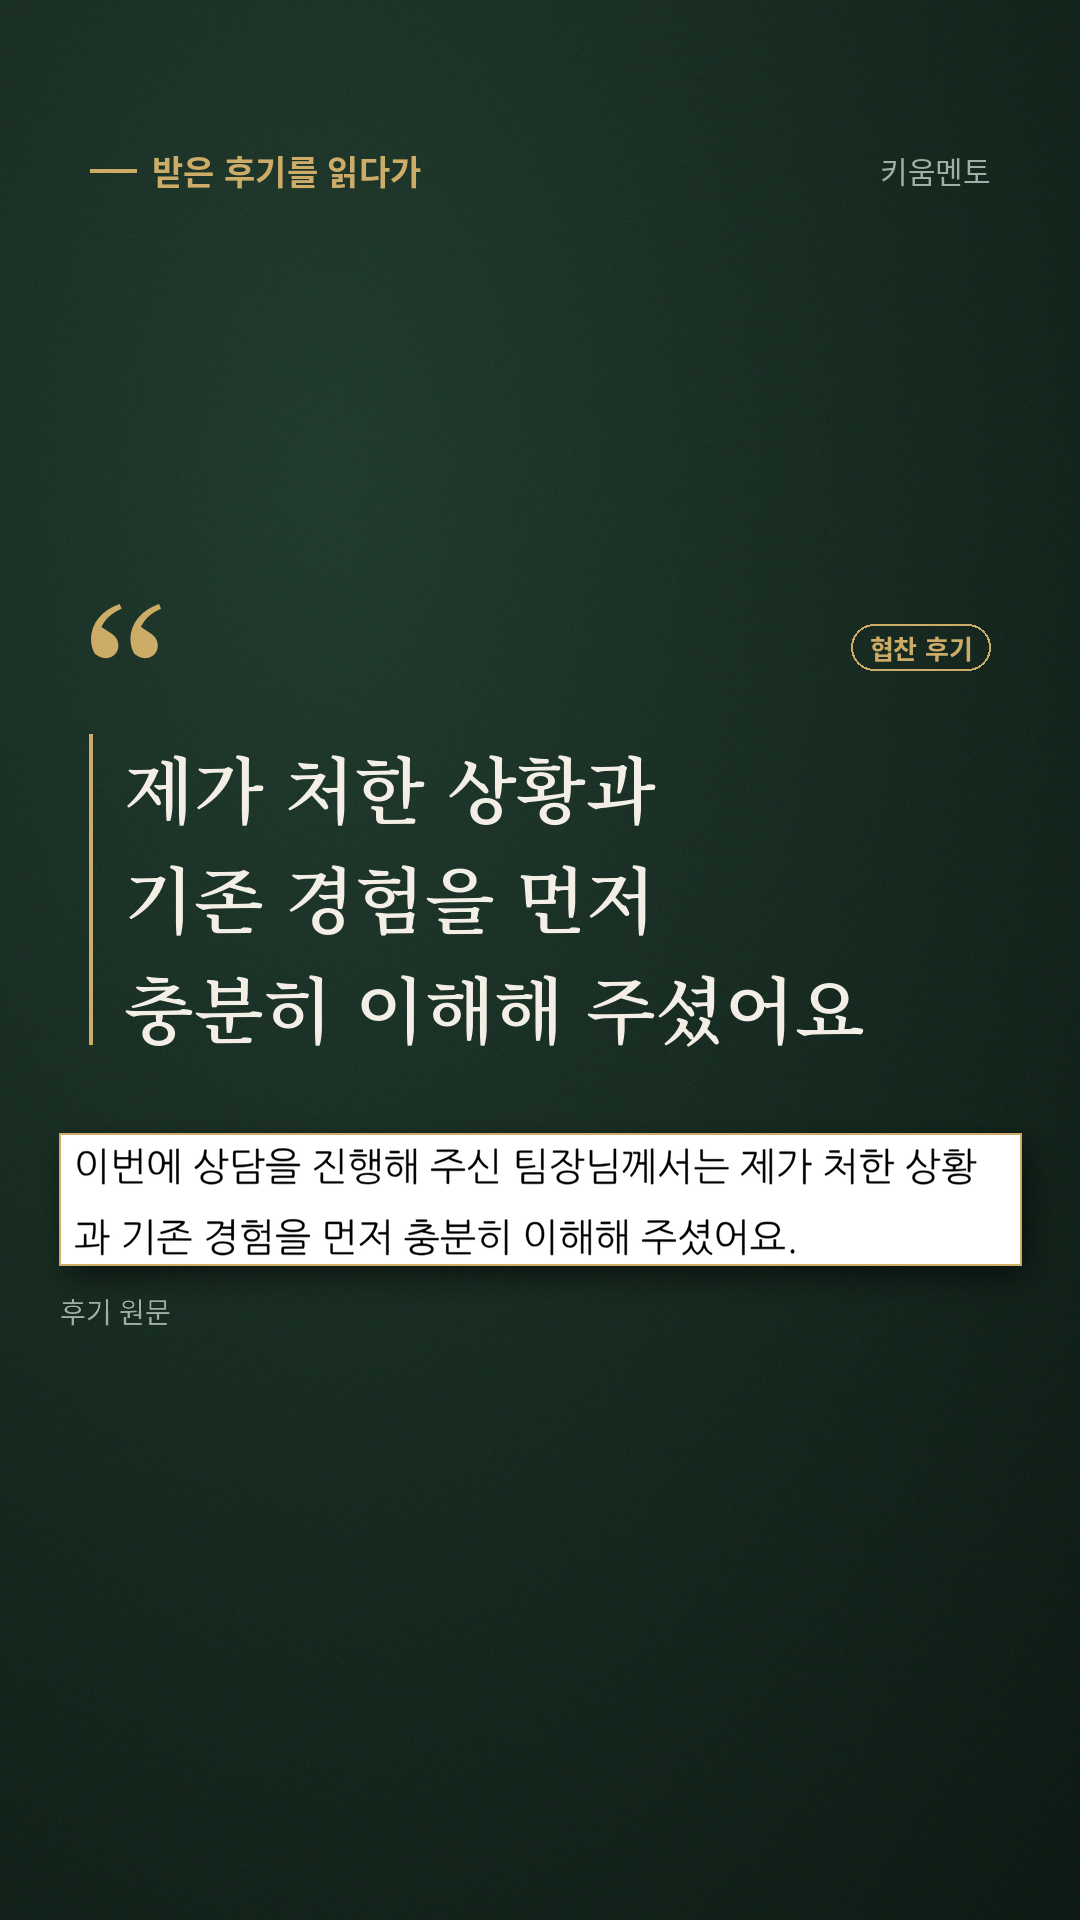
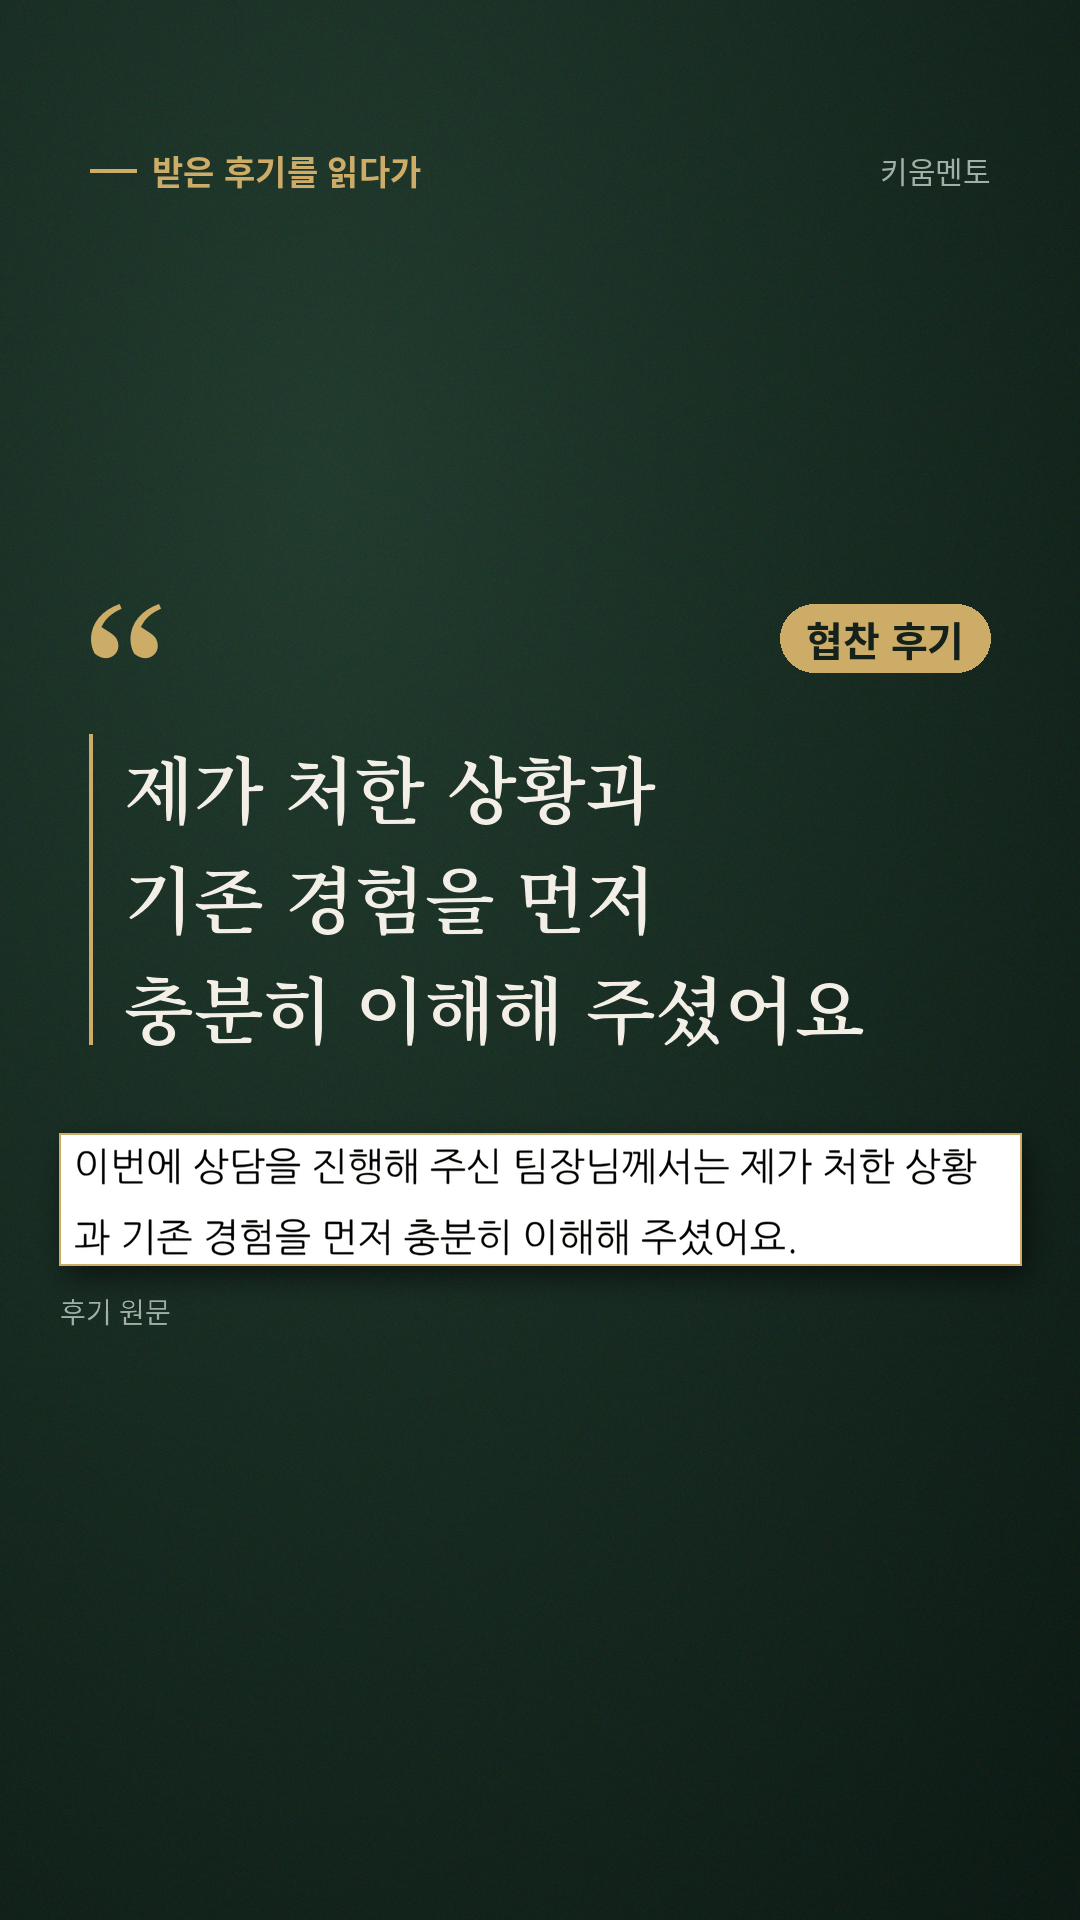
협찬 후기 태그를 읽히는 크기(금색 채운 배지)로 키움
Claude-Session: https://claude.ai/code/session_017tLkMEY4PhFNEhB5zYWJXN

Changed region(s): [[0.7028, 0.3125, 0.9167, 0.375]]

diff --git a/sources/photoreel/2026-11-26-seven-areas/render_pro.py b/sources/photoreel/2026-11-26-seven-areas/render_pro.py
@@ -118,10 +118,10 @@ def content(L, mode, big, quote, key, cap):
         y = 100
         d.text((X0 - 6, y - 40), '“', font=serif(180, 'Bold'), fill=GOLD)
         y += 150
-        f = sans(26)
+        f = sans(40)
         tw = d.textlength('협찬 후기', font=f)
-        d.rounded_rectangle((W - X0 - tw - 36, y - 110, W - X0, y - 64), radius=23, outline=GOLD, width=2)
-        d.text((W - X0 - 18 - tw / 2, y - 87), '협찬 후기', font=f, fill=GOLD, anchor='mm')
+        d.rounded_rectangle((W - X0 - tw - 52, y - 130, W - X0, y - 62), radius=34, fill=GOLD)
+        d.text((W - X0 - 26 - tw / 2, y - 96), '협찬 후기', font=f, fill=(20, 34, 27), anchor='mm')
         d.line((X0, y, X0, y + len(quote) * 110 - 20), fill=GOLD, width=4)
         for ln in quote:
             d.text((X0 + 34, y), ln, font=serif(72), fill=INK)
